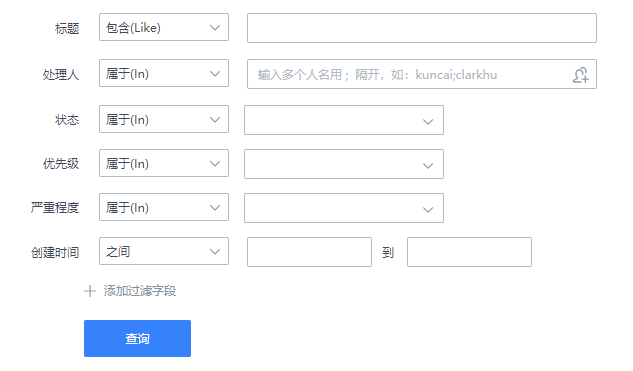
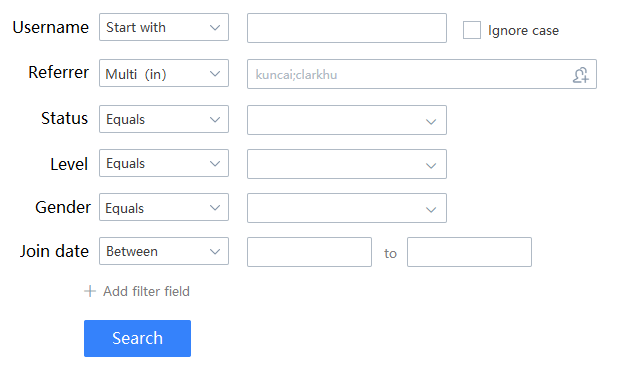
README.md

diff --git a/README.md b/README.md
@@ -50,9 +50,9 @@ The back-end needs to write a retrieval api, and if it is written with tradition
 
 But Bean Searcher can：
 
-### 💥 Achieved in just one line of code
+### 💥 Achieved with one line of code
 
-无论简单还是复杂，Bean Searcher 都只需一行代码：
+Whether simple or complex of requirements, Bean Searcher requires only one line of code
 
 ```java
 @RestController
@@ -60,24 +60,24 @@ But Bean Searcher can：
 public class UserController {
 
     @Autowired
-    private BeanSearcher beanSearcher;              // 注入 BeanSearcher 的检索器
+    private BeanSearcher beanSearcher;              // Inject BeanSearcher
 
     @GetMapping("/index")
     public SearchResult<User> index(HttpServletRequest request) {
-        // 只一行代码，实现包含 分页、组合过滤、任意字段排序、甚至统计、多表联查的 复杂检索功能
-        return beanSearcher.search(User.class, MapUtils.flat(request.getParameterMap()));
+        // Only one line of code written here
+        return beanSearcher.search(User.class, MapUtils.flat(request.getParameterMap()), new String[]{ "age" });
     }
-	
+
 }
 ```
 
-这一行代码可实现：
+This line of code can achieve：
 
-* **多表联查**
-* **分页搜索**
-* **组合过滤**
-* **任意字段排序**
-* **字段统计**
+* **Multi table associated query**
+* **Paging search**
+* **Any field combination filtering**
+* **Any field sort**
+* **Field statistics**
 
 例如，该接口支持如下查询：
 
